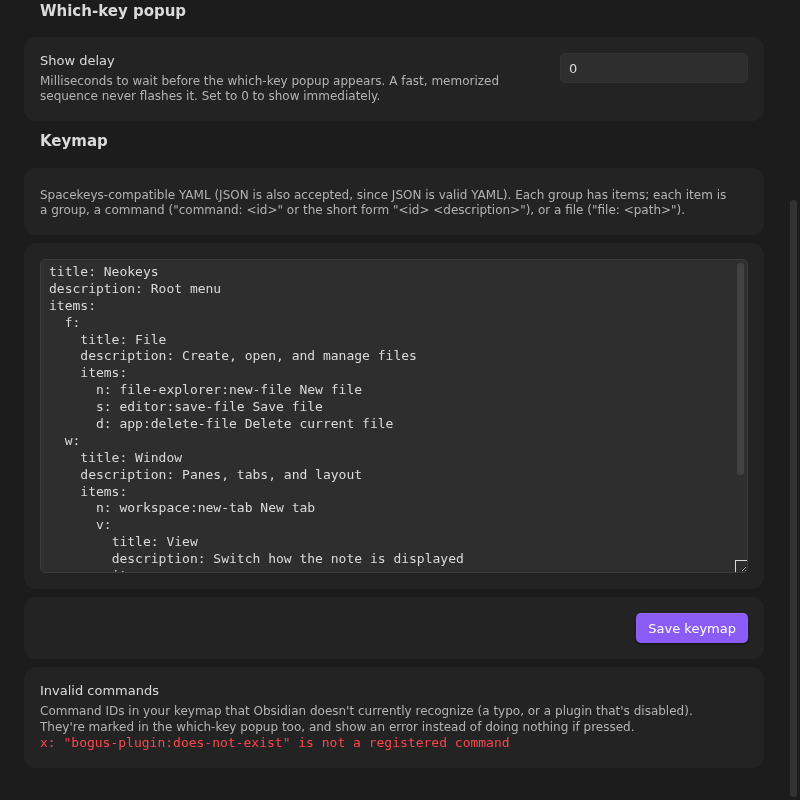
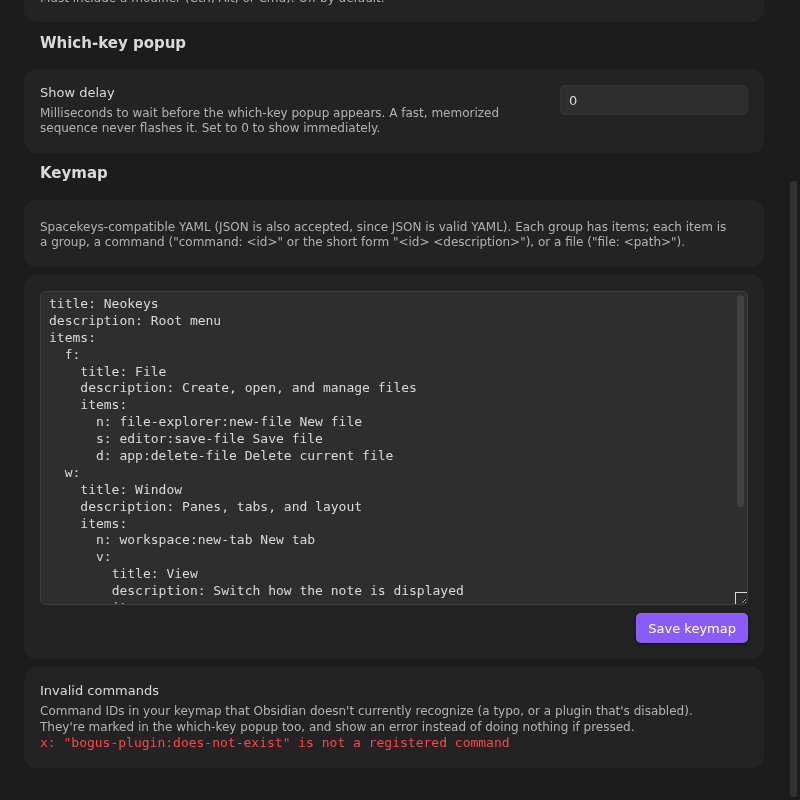
Fix which-key review flaws: badge wrapping, empty settings card, combo display
The which-key popup's "Unknown command" badge now stays on one line as a
compact pill and the invalid-entry label truncates with an ellipsis
instead of both wrapping onto two lines. The settings tab's display()
fallback no longer puts the Save keymap button in its own empty card;
it now sits bottom-right of the keymap textarea's own card. The combo
leader's display now matches Obsidian's own Hotkeys style ("Ctrl + J")
instead of the which-key grid's compact glyph style ("Ctrl+j").

Changed region(s): [[0.0312, 0.0, 0.9062, 0.75], [0.9062, 0.3125, 0.9375, 0.375]]

diff --git a/src/settings.ts b/src/settings.ts
@@ -1,9 +1,9 @@
 import { App, ButtonComponent, Notice, PluginSettingTab, Setting } from "obsidian";
 import type { SettingDefinitionItem } from "obsidian";
-import { ComboLeaderError, parseComboLeaderString, validateComboLeader } from "./comboLeader";
+import { ComboLeaderError, describeComboLeader, parseComboLeaderString, validateComboLeader } from "./comboLeader";
 import { findInvalidCommands } from "./commandValidation";
 import { KeymapParseError, parseKeymapSource } from "./keymap";
-import { keyFromEvent, keyGlyph, keyToString } from "./keys";
+import { keyFromEvent, keyToString } from "./keys";
 import { hasCommand } from "./obsidianCommands";
 import { DEFAULT_KEYMAP_YAML } from "./sampleKeymap";
 import type { NeokeysSettings, ParsedKey } from "./types";
@@ -129,9 +129,10 @@ export class NeokeysSettingTab extends PluginSettingTab {
 
 		new Setting(containerEl).setName("Keymap").setHeading();
 		new Setting(containerEl).setDesc(KEYMAP_DESC);
-		this.renderKeymapEditor(new Setting(containerEl));
+		const keymapSetting = new Setting(containerEl);
+		this.renderKeymapEditor(keymapSetting);
 		this.errorEl = containerEl.createDiv({ cls: "neokeys-keymap-error" });
-		this.renderSaveKeymapButton(new Setting(containerEl));
+		this.renderSaveKeymapButton(keymapSetting);
 		this.renderInvalidCommands(new Setting(containerEl).setName(INVALID_COMMANDS_NAME).setDesc(INVALID_COMMANDS_DESC));
 	}
 
@@ -218,7 +219,7 @@ export class NeokeysSettingTab extends PluginSettingTab {
 	private updateComboDisplay(): void {
 		if (!this.comboDisplayEl) return;
 		const combo = parseComboLeaderString(this.plugin.settings.comboLeader);
-		this.comboDisplayEl.setText(combo ? keyGlyph(combo) : "Not set");
+		this.comboDisplayEl.setText(combo ? describeComboLeader(combo) : "Not set");
 	}
 
 	private showComboError(err: unknown): void {

diff --git a/src/comboLeader.ts b/src/comboLeader.ts
@@ -54,3 +54,40 @@ export function parseComboLeaderString(source: string): ParsedKey | null {
 export function comboLeaderToString(key: ParsedKey): string {
 	return keyToString(key);
 }
+
+const NAMED_KEY_LABELS: Record<string, string> = {
+	enter: "Enter",
+	backspace: "Backspace",
+	escape: "Esc",
+	tab: "Tab",
+	arrowup: "Up",
+	arrowdown: "Down",
+	arrowleft: "Left",
+	arrowright: "Right",
+	" ": "Space",
+	delete: "Delete",
+	home: "Home",
+	end: "End",
+	pageup: "PageUp",
+	pagedown: "PageDown",
+	insert: "Insert",
+};
+
+/**
+ * Display a combo-leader key the way Obsidian's own Hotkeys settings do
+ * ("Ctrl + J"), rather than keyGlyph's compact which-key-grid style ("Ctrl+j").
+ */
+export function describeComboLeader(key: ParsedKey): string {
+	const base = NAMED_KEY_LABELS[key.key] ?? key.key.toUpperCase();
+	// A single letter's shift state is folded into its case (see keys.ts normalize()), so an
+	// uppercase letter alongside another modifier means Shift was actually held.
+	const shiftedLetter = key.key.length === 1 && key.key !== key.key.toLowerCase();
+
+	const parts: string[] = [];
+	if (key.ctrl) parts.push("Ctrl");
+	if (key.alt) parts.push("Alt");
+	if (key.shift || shiftedLetter) parts.push("Shift");
+	if (key.meta) parts.push("Cmd");
+	parts.push(base);
+	return parts.join(" + ");
+}

diff --git a/tests/comboLeader.test.ts b/tests/comboLeader.test.ts
@@ -1,6 +1,7 @@
 import {
 	ComboLeaderError,
 	comboLeaderToString,
+	describeComboLeader,
 	hasRequiredModifier,
 	parseComboLeaderString,
 	validateComboLeader,
@@ -57,5 +58,22 @@ describe("comboLeaderToString", () => {
 		const key = parseKeyString("c-b");
 		const str = comboLeaderToString(key);
 		expect(parseComboLeaderString(str)).toEqual(key);
+	});
+});
+
+describe("describeComboLeader", () => {
+	it("formats modifiers and an uppercase letter Obsidian-Hotkeys style", () => {
+		expect(describeComboLeader(parseKeyString("c-j"))).toBe("Ctrl + J");
+		expect(describeComboLeader(parseKeyString("a-b"))).toBe("Alt + B");
+		expect(describeComboLeader(parseKeyString("m-b"))).toBe("Cmd + B");
+	});
+
+	it("spells out Shift for a shifted letter folded into its case", () => {
+		expect(describeComboLeader(parseKeyString("cs-f"))).toBe("Ctrl + Shift + F");
+	});
+
+	it("names a non-letter key and keeps an explicit shift modifier", () => {
+		expect(describeComboLeader(parseKeyString("c-enter"))).toBe("Ctrl + Enter");
+		expect(describeComboLeader(parseKeyString("cs-tab"))).toBe("Ctrl + Shift + Tab");
 	});
 });

diff --git a/styles.css b/styles.css
@@ -81,8 +81,9 @@
 
 .neokeys-row {
 	display: flex;
-	align-items: flex-start;
+	align-items: center;
 	gap: var(--size-2-2);
+	min-width: 0;
 }
 
 .neokeys-key {
@@ -96,6 +97,14 @@
 .neokeys-label {
 	color: var(--text-normal);
 	overflow-wrap: break-word;
+	min-width: 0;
+}
+
+.neokeys-row-invalid .neokeys-label {
+	flex: 1 1 auto;
+	overflow: hidden;
+	text-overflow: ellipsis;
+	white-space: nowrap;
 }
 
 .neokeys-row-group .neokeys-key {
@@ -122,6 +131,8 @@
 	border: 1px solid var(--text-error);
 	border-radius: var(--radius-s);
 	padding: 0 var(--size-2-2);
+	white-space: nowrap;
+	flex-shrink: 0;
 }
 
 .neokeys-keymap-editor .setting-item-info {
@@ -131,6 +142,8 @@
 .neokeys-keymap-editor .setting-item-control {
 	flex: 1 1 auto;
 	width: 100%;
+	flex-wrap: wrap;
+	justify-content: flex-end;
 }
 
 .neokeys-keymap-textarea {
@@ -153,6 +166,7 @@
 	font-family: var(--font-monospace);
 	color: var(--text-muted);
 	margin-right: var(--size-4-2);
+	white-space: nowrap;
 }
 
 .neokeys-combo-error {
